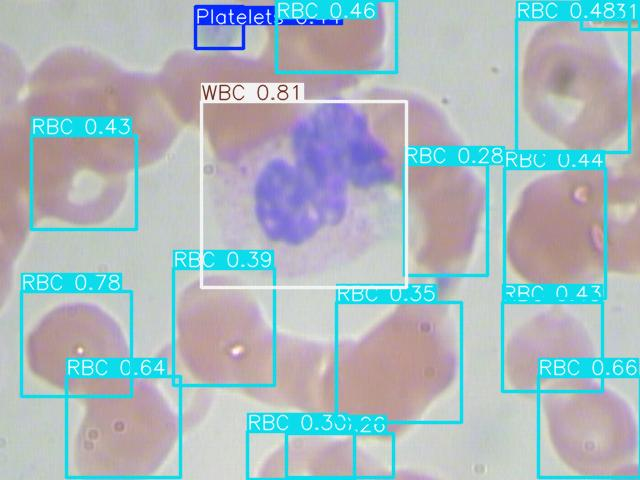
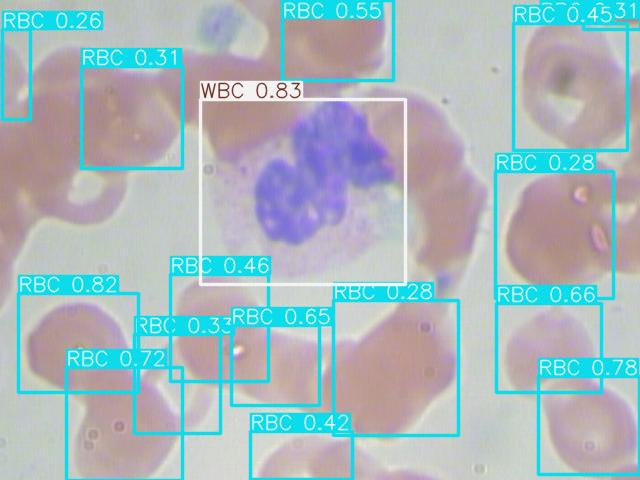
Minor edit in yolov5 script with new weight files

Changed region(s): [[0.0, 0.0, 1.0, 1.0], [0.0, 0.0, 0.625, 0.5]]

diff --git a/scripts/yolov5.py b/scripts/yolov5.py
@@ -1,7 +1,7 @@
 import glob, random, torch
 
 # Configurations
-WEIGHTS_PATH = '../weights/best_bccd_v3.pt'
+WEIGHTS_PATH = '../weights/best_bccd_4_v5.pt'
 TEST_IMAGES_PATH = '../test-images/*.jpg'
 OUTPUT_PROJECT = '../results/'
 OUTPUT_NAME = 'outputs-v5'
